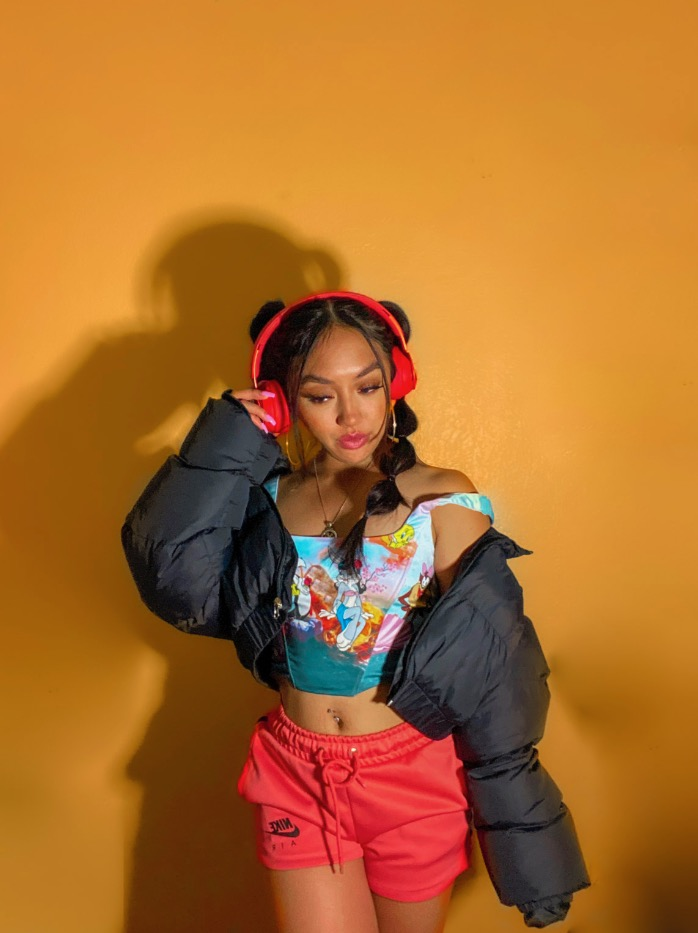
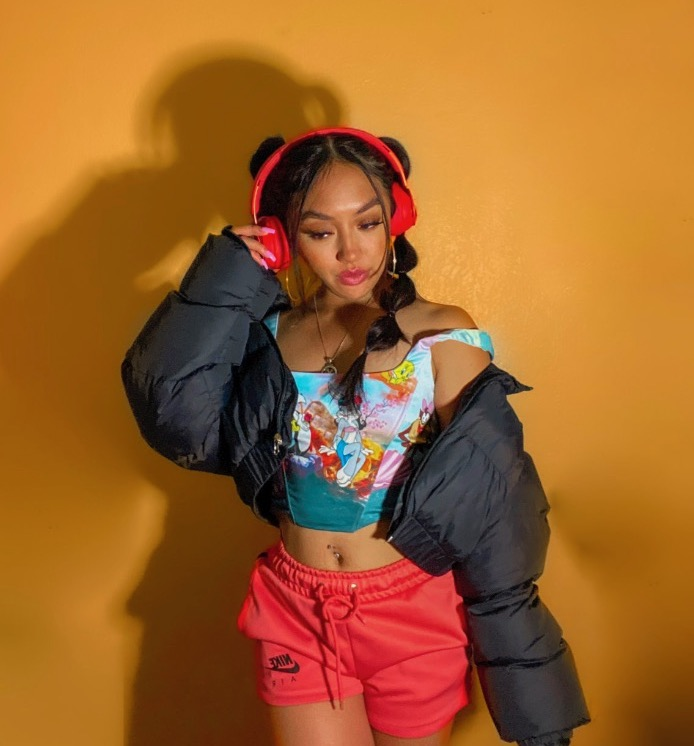
changes
changes

diff --git a/midterm_project/style.css b/midterm_project/style.css
@@ -43,12 +43,13 @@ body{
 }
 
 img{
-  padding-left:40em;
   border-color:#FF8A4F;
   font-family:Helvetica, sans-serif;
   color: #BEE2FB;
   font-size: 18px;
   font-weight: 800;
+  position:absolute;
+  padding-left: 25em;
   height:25%;
   width: 25%
 }
